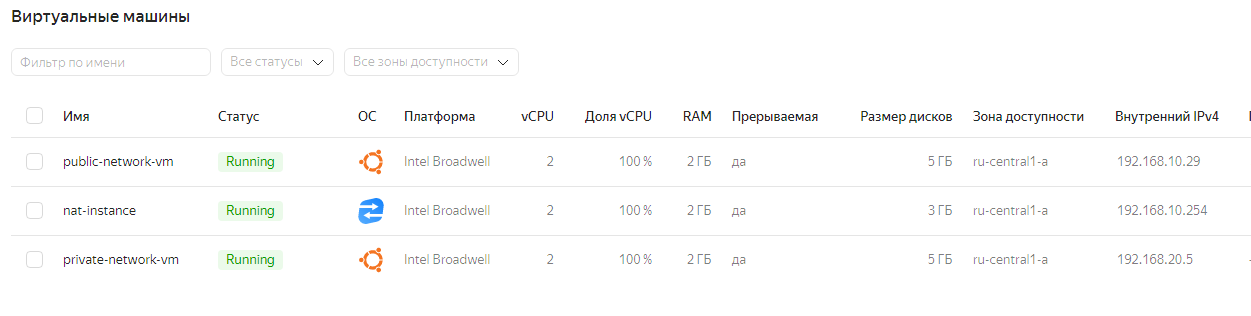
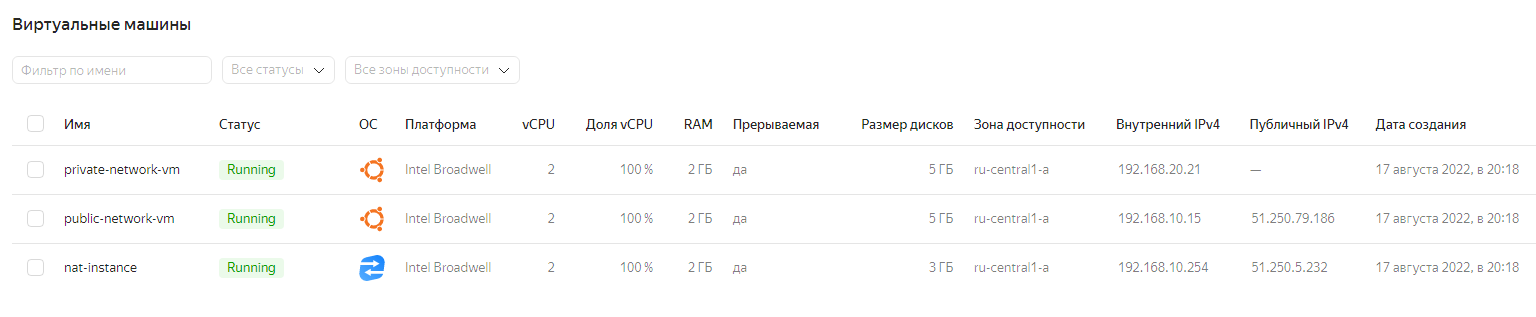
Finish homework 15.1

diff --git a/HomeWorks/15/15.1/README.md b/HomeWorks/15/15.1/README.md
@@ -60,3 +60,11 @@
 
 ### Проверка доступа
 
+#### Public VM
+
+![img.png](./img/8.png)
+
+
+#### Private VM
+
+![img.png](./img/9.png)
